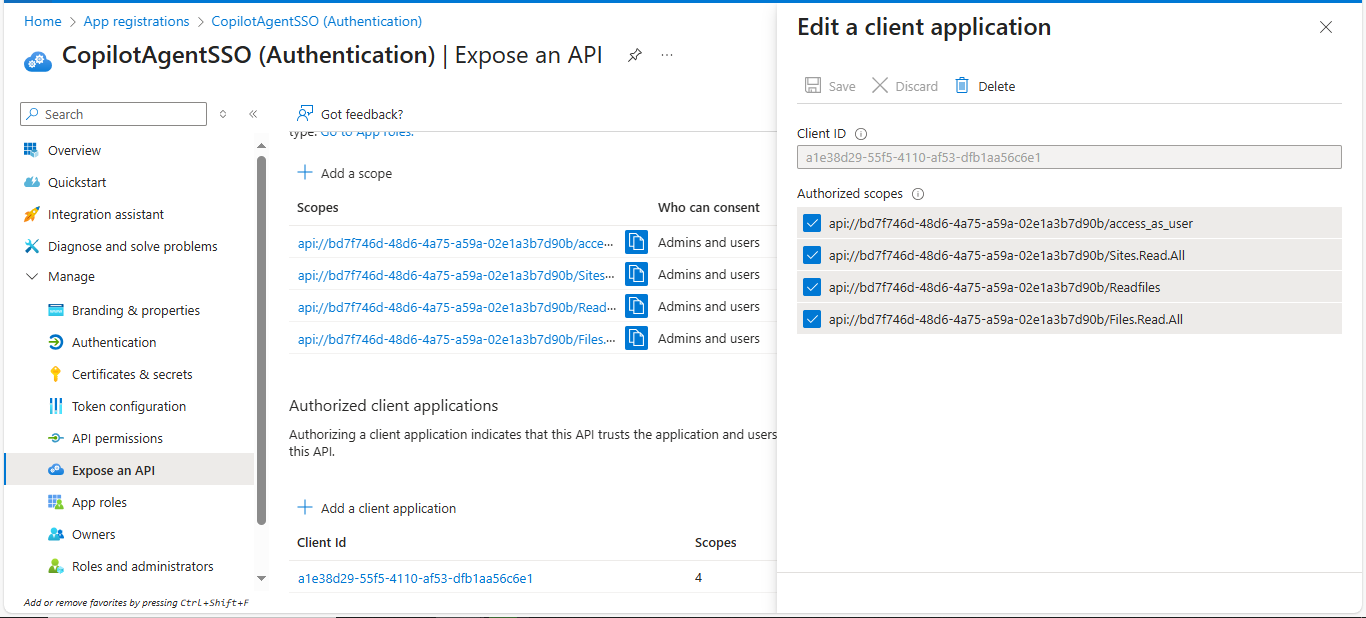
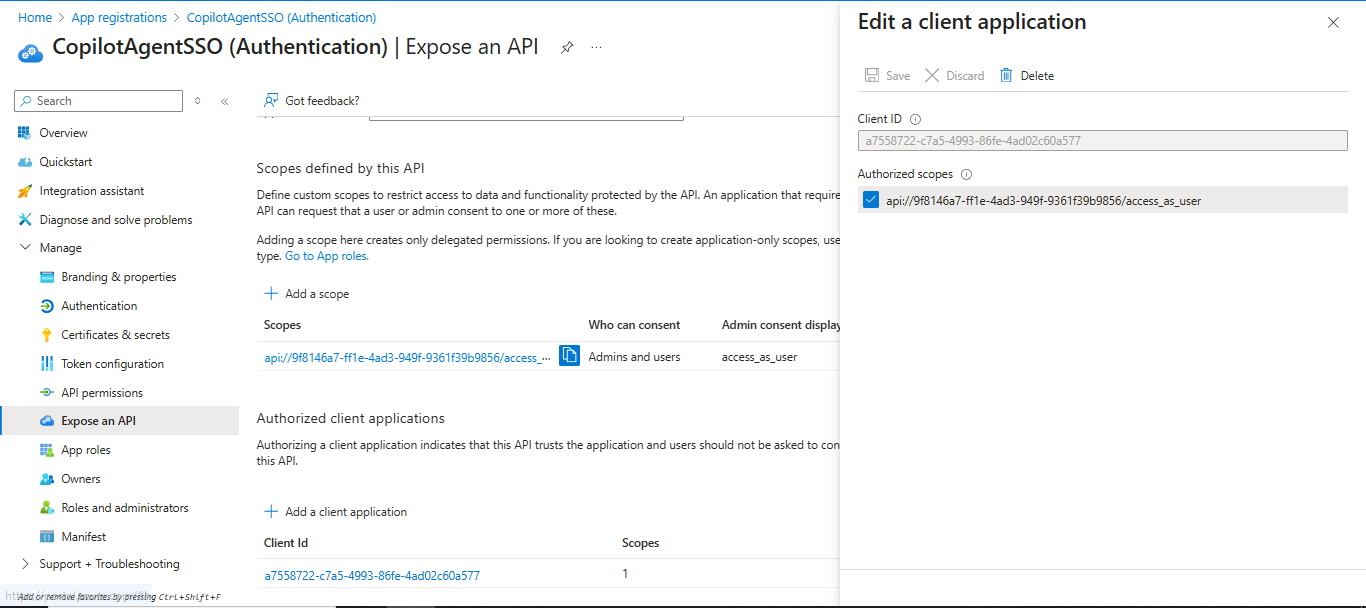
update on readme config

diff --git a/assets/js/chat.js b/assets/js/chat.js
@@ -1,7 +1,7 @@
 // Initializes the MSAL configuration with client and tenant IDs.
 const clientId = config.clientId; // Application (client) ID
 const tenantId = config.tenantId; // Directory (tenant) ID
-const tokenEndpoint = config.tokenEndpoint; // Endpoint to fetch Direct Line token
+const tokenEndpoint = config.tokenEndpoint; // Direct Line token from copilot studio channel
 
 const msalConfig = {
   auth: { 

diff --git a/README.md b/README.md
@@ -12,8 +12,8 @@ https://copilotssoagent.netlify.app
 
 | Field    | Value                   |
 |----------|------------------------|
-| Username | `testuser@example.com` |
-| Password | `Test1234!`            |
+| Username | `contoso@bedevcenter.onmicrosoft.com` |
+| Password | `P@ss550rd123`            |
 
 ---
 # 🧩 Single Sign-On (SSO) Setup for Copilot Studio — Manual Authentication
@@ -36,10 +36,10 @@ Before you begin:
 
 ### 1⃣ Authentication App Registration
 1. Go to **Azure Portal → App registrations → New registration**.  
-2. Name it (e.g. `MyCopilot-AuthApp`).  
+2. Name it (e.g. `CopilotAgentSSO (Authentication)`).  
 3. Under **Supported account types**, choose as needed (e.g. “Accounts in any organizational directory and personal Microsoft accounts”).  
 4. After creation, navigate to **Authentication → Add a platform → Web**.  
-5. Add redirect URI:  https://token.botframework.com/.auth/web/redirect
+5. Add redirect URI:  https://token.botframework.com/.auth/web/redirect (You can get the redirect url from copilot studio as shown on step 3).
 6. Under **Implicit grant and hybrid flows**, enable:
 - ✅ Access tokens  
 - ✅ ID tokens  
@@ -50,7 +50,7 @@ Before you begin:
 ![Second Authentication Flow](./assets/images/copilotap2.PNG)
 
 ### 2⃣ Canvas App Registration
-1. Create another app registration, e.g. `MyCopilot-CanvasApp`.  
+1. Create another app registration, e.g. `CopilotAgentSSO (Canvas)`.  
 2. Under **Authentication → Add a platform**, select:
 - **Single Page Application (SPA)** if hosted as a web app  
 - **Web** if using a backend or server-rendered page.  
